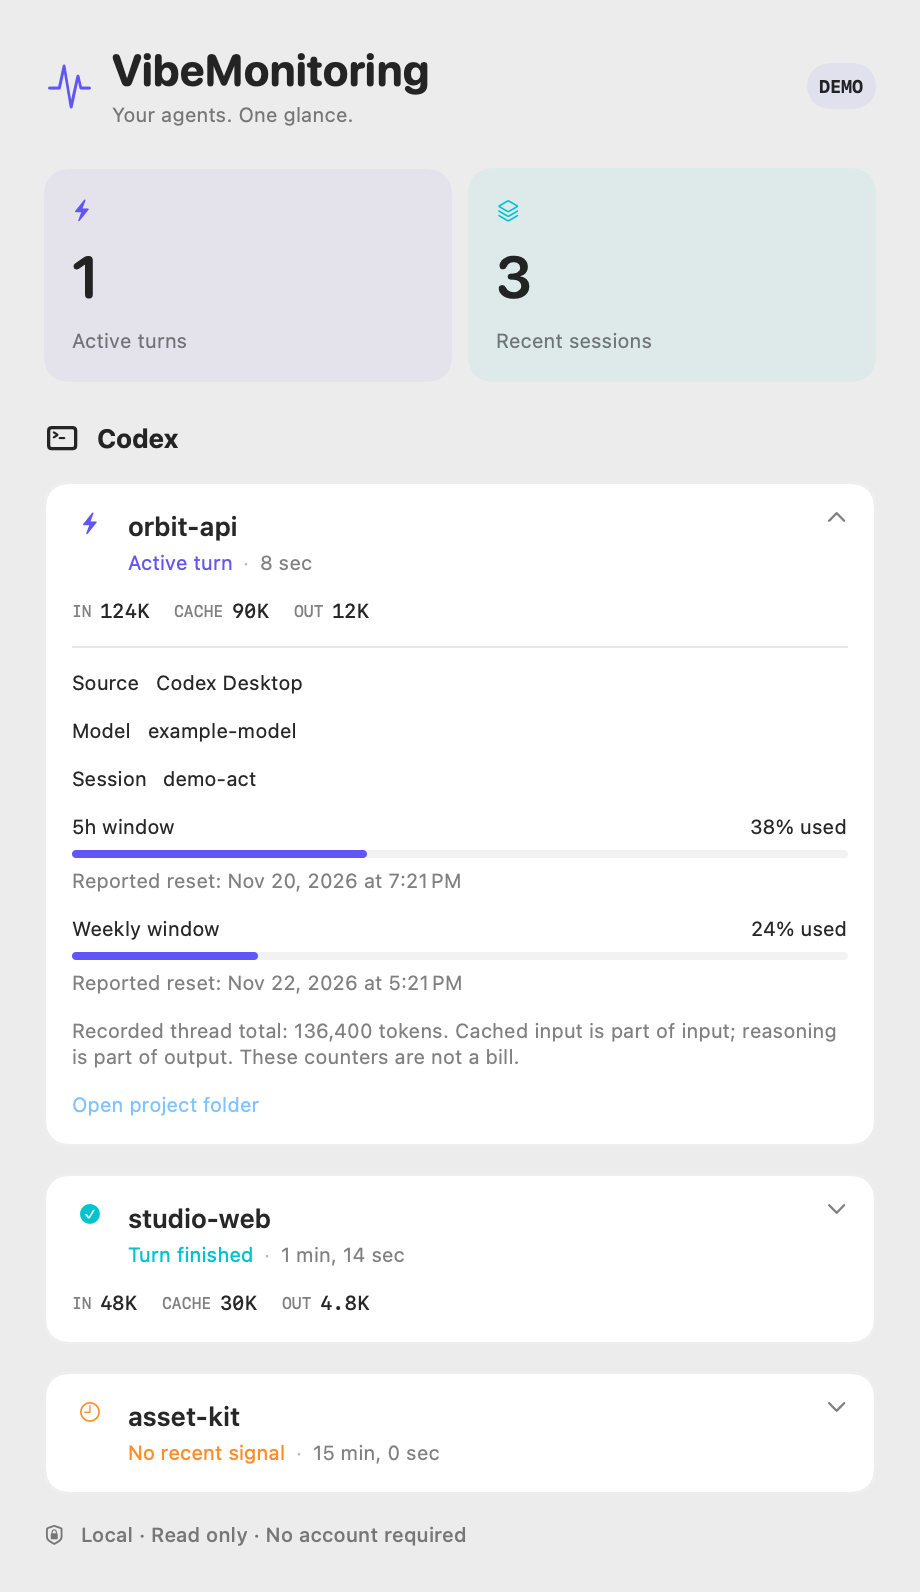
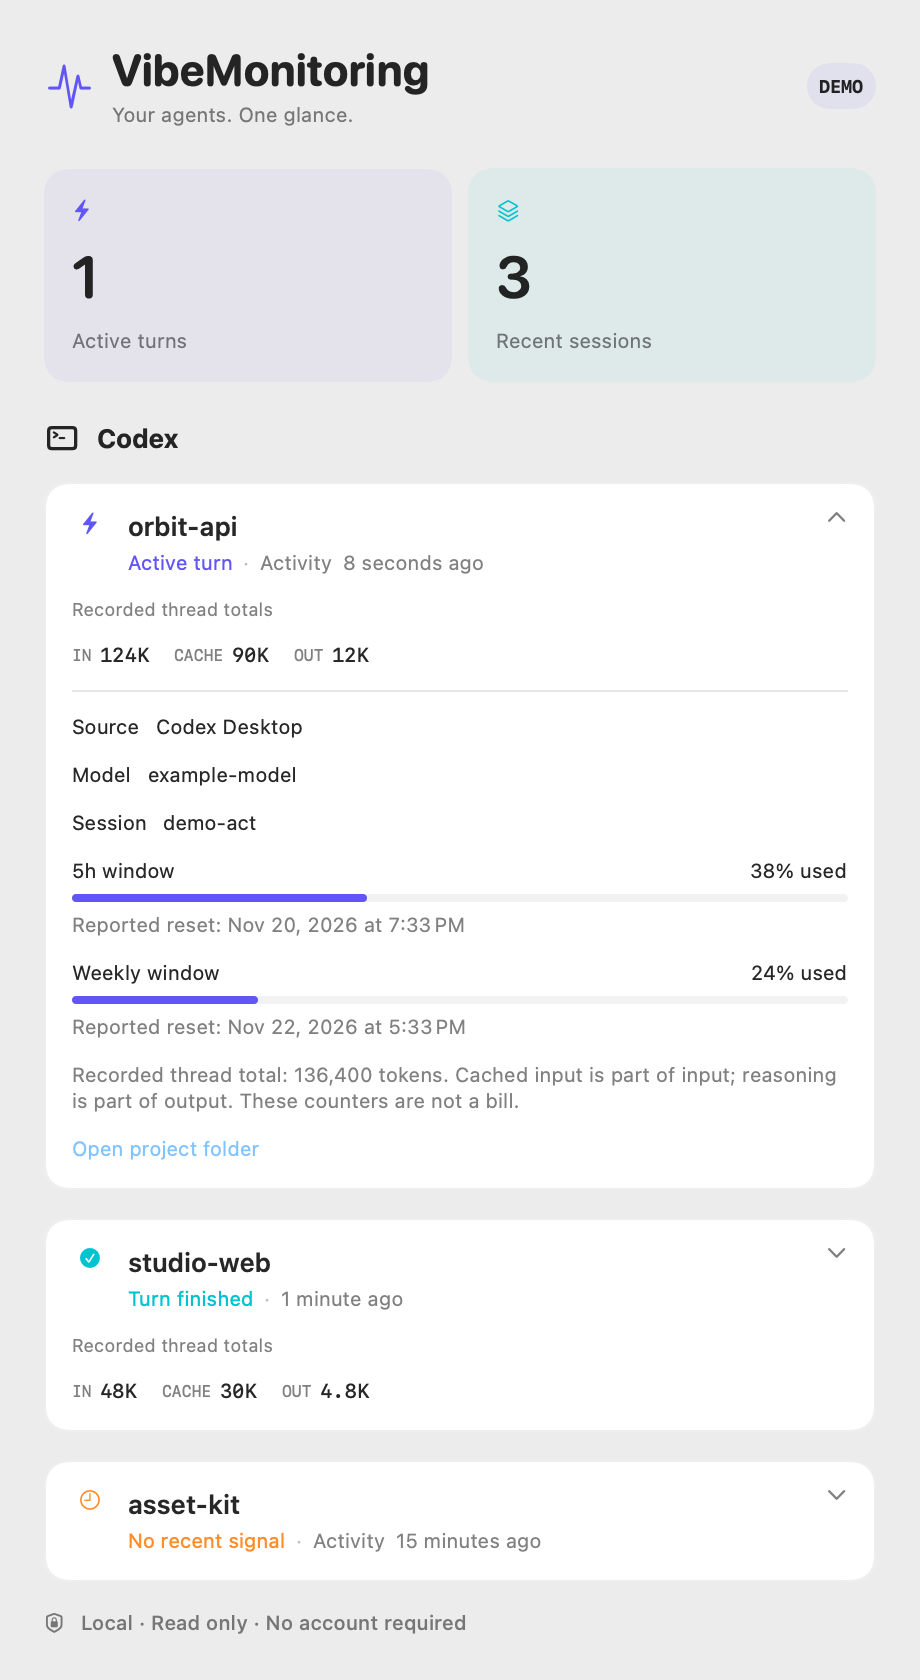
Clarify turn timestamps and show recorded duration

diff --git a/Sources/VibeMonitoring/DashboardView.swift b/Sources/VibeMonitoring/DashboardView.swift
@@ -144,9 +144,12 @@ struct SessionCard: View {
                     Text(session.projectName).font(.system(size: 13, weight: .semibold)).lineLimit(1)
                     HStack(spacing: 5) {
                         Text(phase.title).foregroundStyle(phase.color)
-                        if let date = session.lastActivity {
+                        if let date = session.statusTimestamp {
                             Text("·").foregroundStyle(.tertiary)
-                            Text(date, style: .relative).foregroundStyle(.secondary)
+                            if phase != .completed && phase != .interrupted {
+                                Text("Activity").foregroundStyle(.secondary)
+                            }
+                            Text(date, format: .relative(presentation: .numeric)).foregroundStyle(.secondary)
                         }
                     }.font(.system(size: 10))
                 }
@@ -158,6 +161,7 @@ struct SessionCard: View {
             }
 
             if let usage = session.usage {
+                Text("Recorded thread totals").font(.system(size: 9)).foregroundStyle(.secondary)
                 HStack(spacing: 12) {
                     token("IN", usage.input)
                     token("CACHE", usage.cachedInput)
@@ -171,6 +175,9 @@ struct SessionCard: View {
                 LabeledContent("Source", value: session.origin ?? "Codex")
                 LabeledContent("Model", value: session.model ?? "Not in recent events")
                 LabeledContent("Session", value: session.shortID)
+                if let duration = session.turnDuration {
+                    LabeledContent("Turn duration", value: Duration.seconds(duration).formatted(.units(allowed: [.hours, .minutes, .seconds], width: .abbreviated)))
+                }
                 if let primary = session.primaryWindow { QuotaView(window: primary) }
                 if let secondary = session.secondaryWindow { QuotaView(window: secondary) }
                 if let usage = session.usage {

diff --git a/Tests/VibeMonitoringCoreTests/JournalParserTests.swift b/Tests/VibeMonitoringCoreTests/JournalParserTests.swift
@@ -48,6 +48,27 @@ final class JournalParserTests: XCTestCase {
         XCTAssertEqual(session.displayPhase(at: start.addingTimeInterval(999)), .interrupted)
     }
 
+    func testCompletionTimeAndDurationDoNotFollowLaterActivity() {
+        var session = CodexSession(id: "test")
+        apply(["type": "task_started", "turn_id": "first"], to: &session)
+        apply(["type": "task_complete", "turn_id": "first", "duration_ms": 1_500], second: 2, to: &session)
+        let completedAt = session.stateChangedAt
+        apply(["type": "token_count"], second: 5, to: &session)
+        XCTAssertEqual(session.statusTimestamp, completedAt)
+        XCTAssertNotEqual(session.statusTimestamp, session.lastActivity)
+        XCTAssertEqual(session.turnDuration, 1.5)
+
+        apply(["type": "task_started", "turn_id": "second"], second: 6, to: &session)
+        XCTAssertNil(session.turnDuration)
+        XCTAssertEqual(session.statusTimestamp, session.lastActivity)
+        apply(["type": "task_complete", "turn_id": "first", "duration_ms": 3_000], second: 7, to: &session)
+        XCTAssertNil(session.turnDuration)
+        XCTAssertEqual(session.phase, .running)
+        apply(["type": "turn_aborted", "turn_id": "second", "duration_ms": -1], second: 8, to: &session)
+        XCTAssertEqual(session.phase, .interrupted)
+        XCTAssertNil(session.turnDuration)
+    }
+
     func testLimitsAndMetadataAreParsedWithoutConversationFields() {
         var session = CodexSession(id: "test")
         apply(["id": "sample", "cwd": "/demo/project", "originator": "Codex CLI",

diff --git a/Sources/VibeMonitoringCore/JournalParser.swift b/Sources/VibeMonitoringCore/JournalParser.swift
@@ -39,6 +39,7 @@ public struct JournalParser {
                     session.activeTurnID = payload.turnID
                     session.phase = .running
                     session.stateChangedAt = date
+                    session.turnDuration = nil
                 }
             case "task_complete", "turn_aborted":
                 let matchesTurn = session.activeTurnID == nil || payload.turnID == nil
@@ -46,6 +47,9 @@ public struct JournalParser {
                 if matchesTurn && canChangeState(at: date, in: session) {
                     session.phase = payload.type == "task_complete" ? .completed : .interrupted
                     session.stateChangedAt = date
+                    session.turnDuration = payload.durationMilliseconds.flatMap {
+                        $0.isFinite && $0 >= 0 ? $0 / 1_000 : nil
+                    }
                 }
             case "exec_approval_request", "apply_patch_approval_request", "request_user_input", "error":
                 if canChangeState(at: date, in: session) {
@@ -103,6 +107,7 @@ private struct Payload: Decodable {
     var info: TokenInfo?
     var rateLimits: Limits?
     var threadTokenUsage: Counters?
+    var durationMilliseconds: Double?
 
     enum CodingKeys: String, CodingKey {
         case id, cwd, originator, model, type, info
@@ -110,6 +115,7 @@ private struct Payload: Decodable {
         case turnID = "turn_id"
         case rateLimits = "rate_limits"
         case threadTokenUsage = "thread_token_usage"
+        case durationMilliseconds = "duration_ms"
     }
 }
 

diff --git a/Sources/VibeMonitoringCore/Models.swift b/Sources/VibeMonitoringCore/Models.swift
@@ -62,6 +62,7 @@ public struct CodexSession: Identifiable, Sendable {
     public var activeTurnID: String?
     public var lastActivity: Date?
     public var stateChangedAt: Date?
+    public var turnDuration: TimeInterval?
     public var usage: TokenUsage?
     public var usageObservedAt: Date?
     public var contextWindow: Int?
@@ -79,6 +80,10 @@ public struct CodexSession: Identifiable, Sendable {
     }
 
     public var shortID: String { String(id.prefix(8)) }
+
+    public var statusTimestamp: Date? {
+        phase == .completed || phase == .interrupted ? stateChangedAt : lastActivity
+    }
 
     public func displayPhase(at now: Date = Date(), staleAfter: TimeInterval = 180) -> SessionPhase {
         guard phase == .running || phase == .attention else { return phase }

diff --git a/Sources/VibeMonitoringCore/DemoData.swift b/Sources/VibeMonitoringCore/DemoData.swift
@@ -22,6 +22,8 @@ public enum DemoData {
         finished.model = "example-model"
         finished.phase = .completed
         finished.lastActivity = now.addingTimeInterval(-74)
+        finished.stateChangedAt = finished.lastActivity
+        finished.turnDuration = 125
         finished.usage = TokenUsage(input: 48_000, cachedInput: 30_000, output: 4_800, total: 52_800)
 
         var stale = CodexSession(id: "demo-stale")

diff --git a/README.md b/README.md
@@ -12,6 +12,7 @@ The first release is a **read-only Codex monitor**. VPN protection, subscription
 
 - Menu bar indicator with the number of recently observed active turns.
 - Session list grouped by project, with active, finished, interrupted and stale states.
+- Explicit relative timestamps; completed turns keep their completion time. Recorded turn duration is shown in details when available.
 - Cumulative input, cached input and output token snapshots from Codex.
 - Last reported short and long usage windows, when present in the journals.
 - Optional notifications when a turn observed as active finishes.
